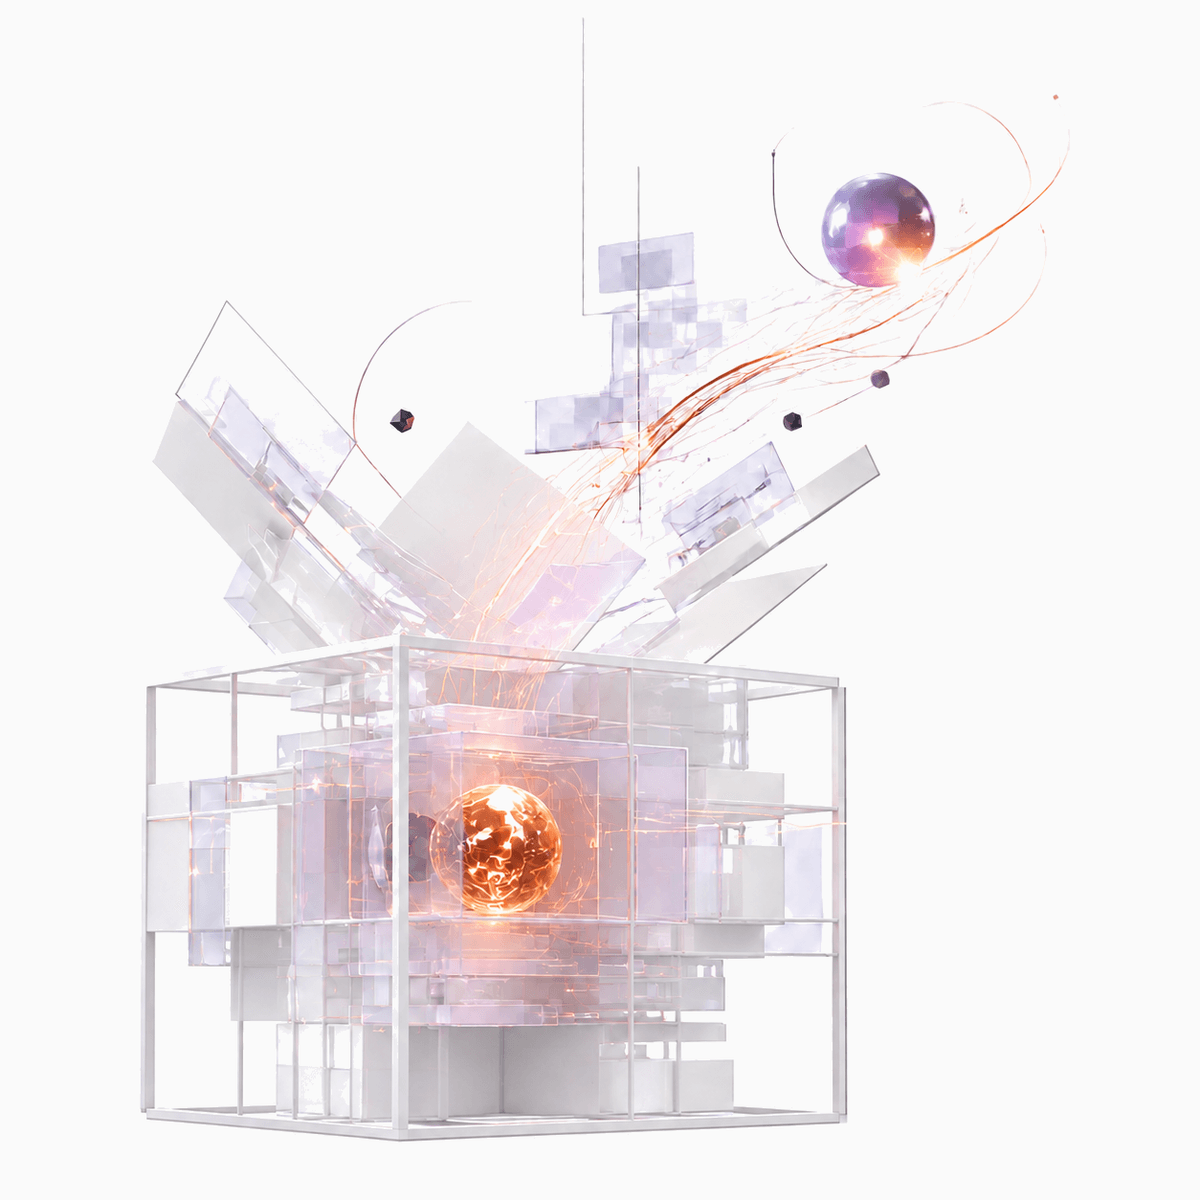
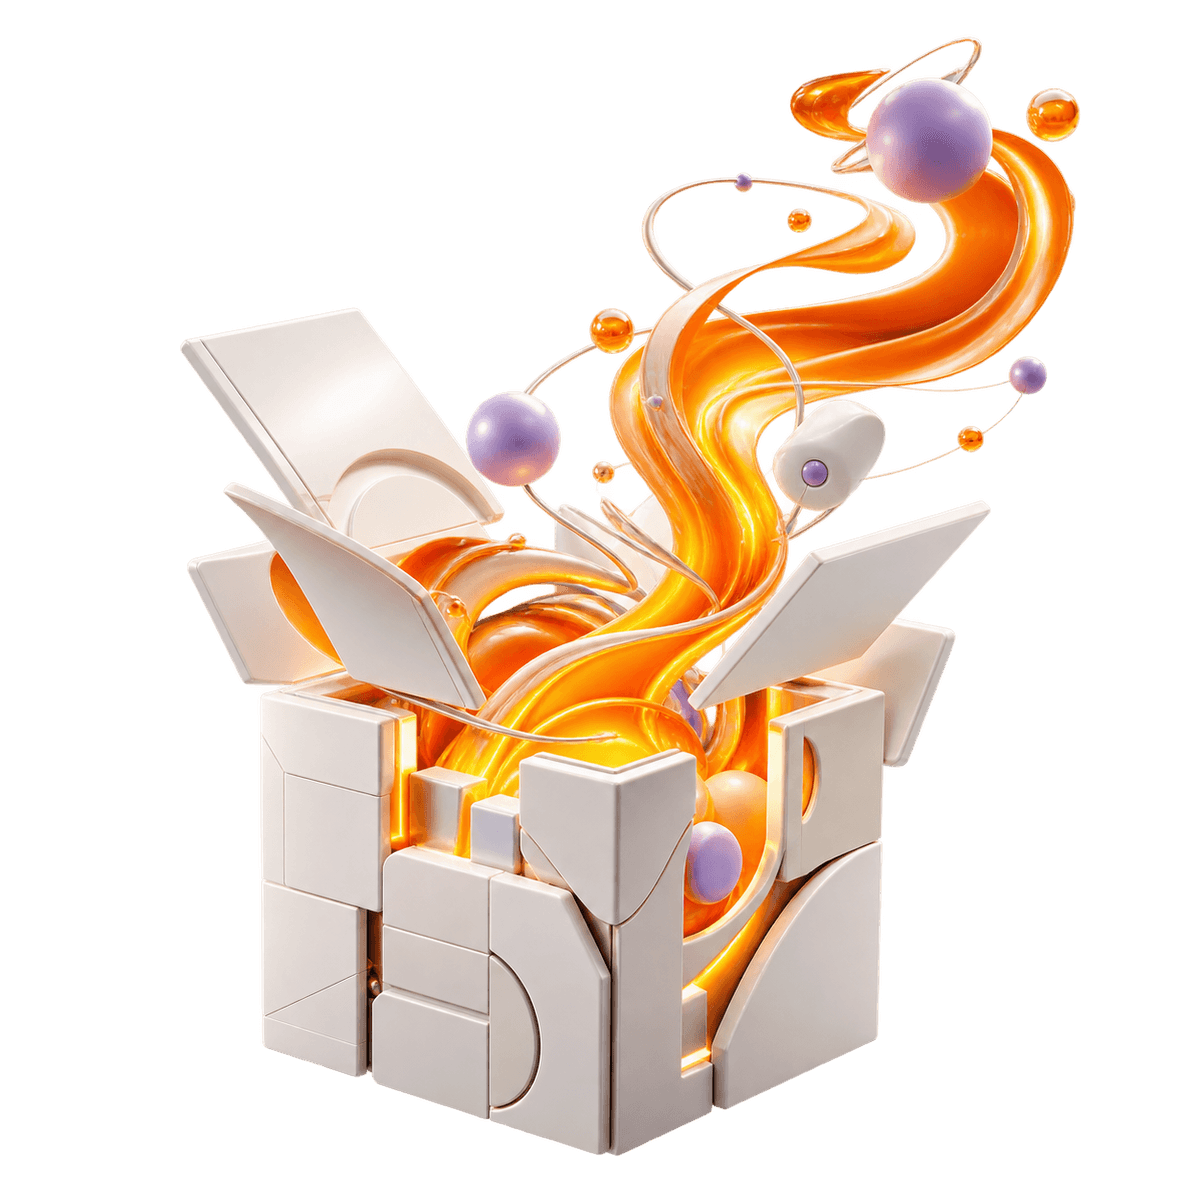
feat: nova arte da secao sobre, com laranja da marca
Troca a arte por uma versao com alpha real e o laranja do acento. Como
tem transparencia, ela flutua sobre o fundo escuro em vez de ficar num
painel branco, com um brilho radial atras para dar profundidade.

diff --git a/app/globals.css b/app/globals.css
@@ -239,17 +239,19 @@ button { font: inherit; color: inherit }
    =========================================================== */
 .intro-section { padding: 150px 8vw; display: grid; grid-template-columns: 1.2fr .8fr; gap: 12vw; align-items: center }
 
-/* A arte é quadrada e tem fundo branco chapado, então o painel acompanha a
-   proporção 1:1 e ela preenche por inteiro, sem sobra nem emenda de cor. */
-.intro-visual {
-  aspect-ratio: 1 / 1; border-radius: 2px; position: relative; overflow: hidden;
-  background: #fafafa;
+/* A arte é quadrada e tem alpha de verdade, então flutua sobre o fundo escuro
+   em vez de ficar dentro de um painel. O brilho atrás dá profundidade. */
+.intro-visual { aspect-ratio: 1 / 1; position: relative; background: transparent }
+.intro-visual:before {
+  content: ''; position: absolute; inset: 12%; z-index: 0;
+  background: radial-gradient(circle at 56% 44%, rgba(220, 90, 43, .22), transparent 62%);
+  filter: blur(34px);
 }
-.intro-visual picture { display: block; width: 100%; height: 100% }
-.intro-visual img { width: 100%; height: 100%; object-fit: cover; display: block }
+.intro-visual picture { display: block; width: 100%; height: 100%; position: relative; z-index: 1 }
+.intro-visual img { width: 100%; height: 100%; object-fit: contain; display: block }
 .intro-visual span {
-  position: absolute; right: 24px; bottom: 22px; z-index: 3;
-  font-size: 10px; letter-spacing: .12em; color: rgba(23, 25, 27, .55);
+  position: absolute; right: 8px; bottom: 6px; z-index: 3;
+  font-size: 10px; letter-spacing: .12em; color: var(--muted);
 }
 
 .intro-copy h2 { font-size: clamp(52px, 6vw, 90px); line-height: .88; letter-spacing: -.1em; margin: 30px 0 }
